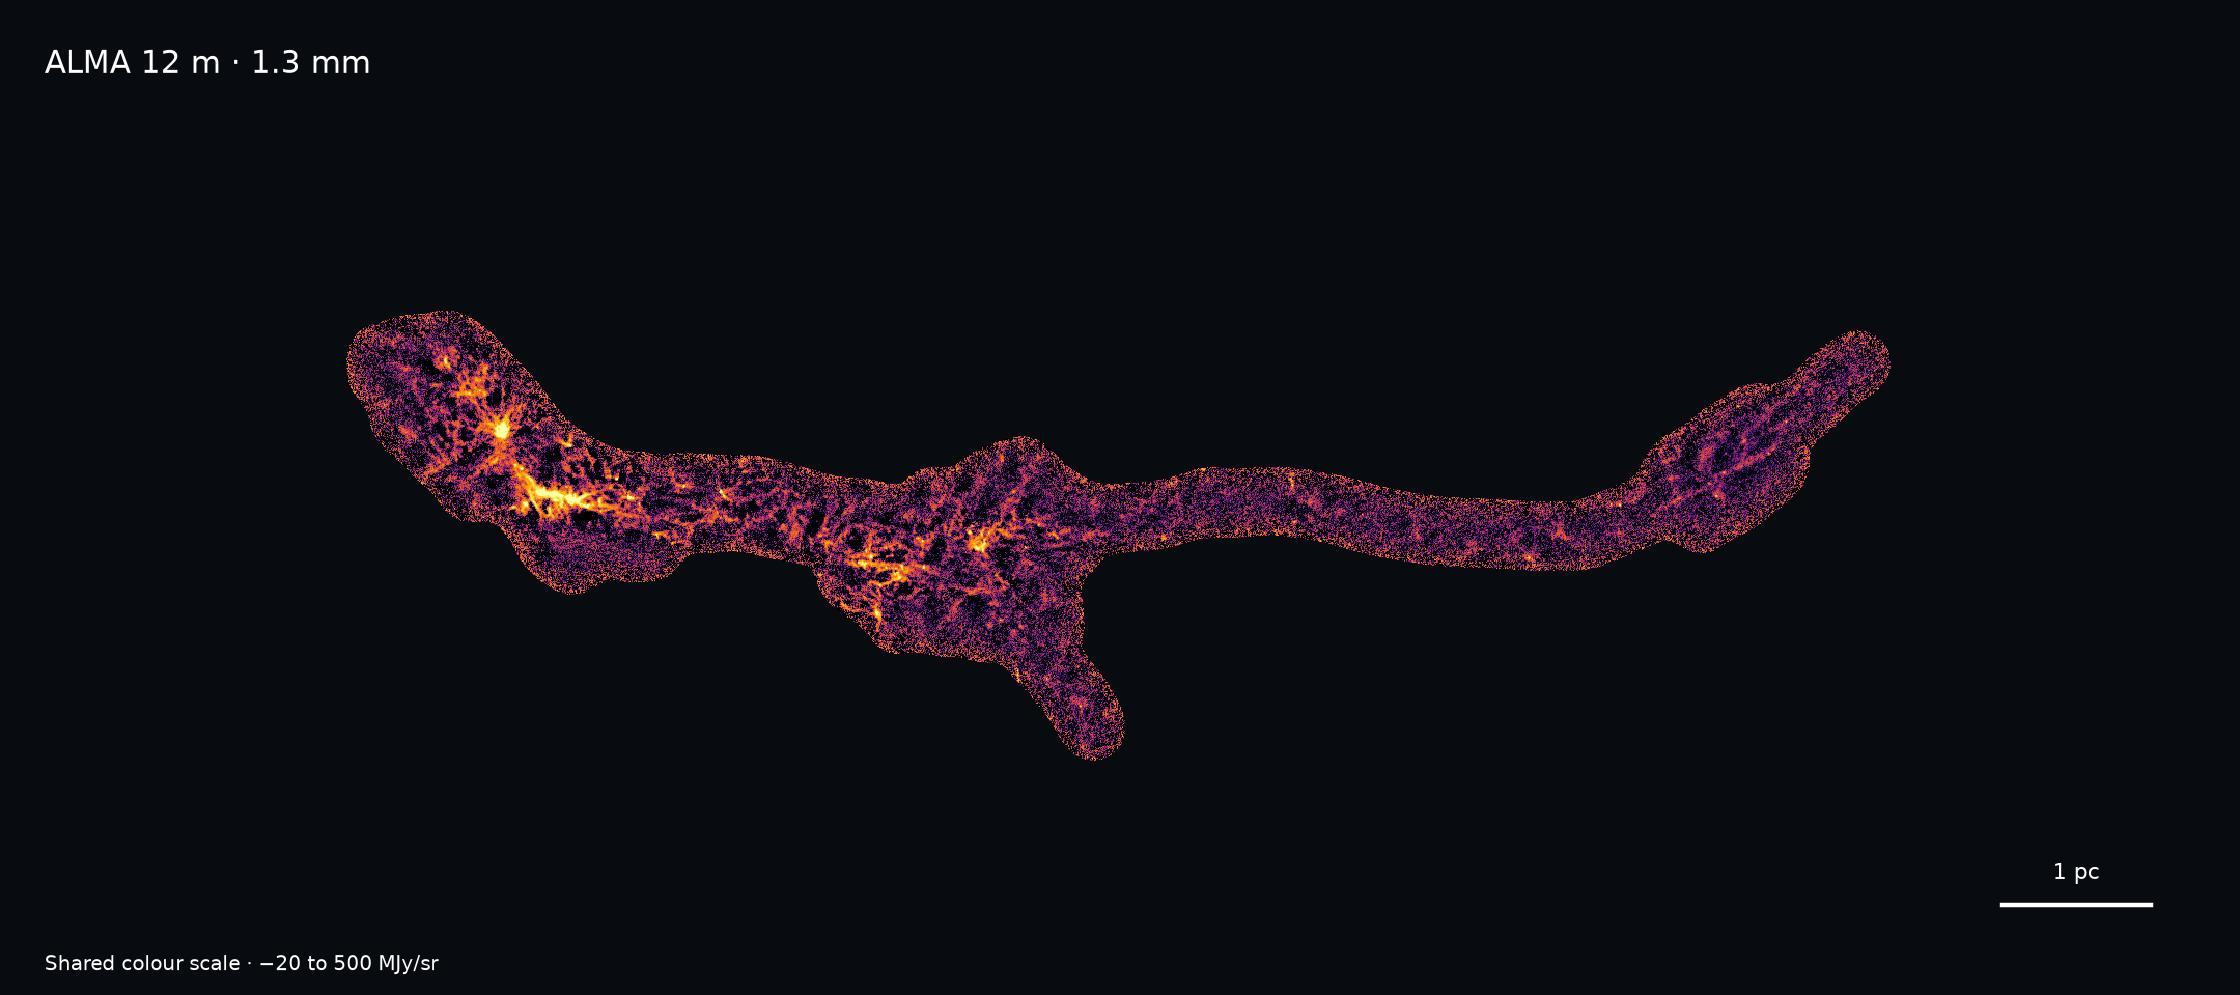
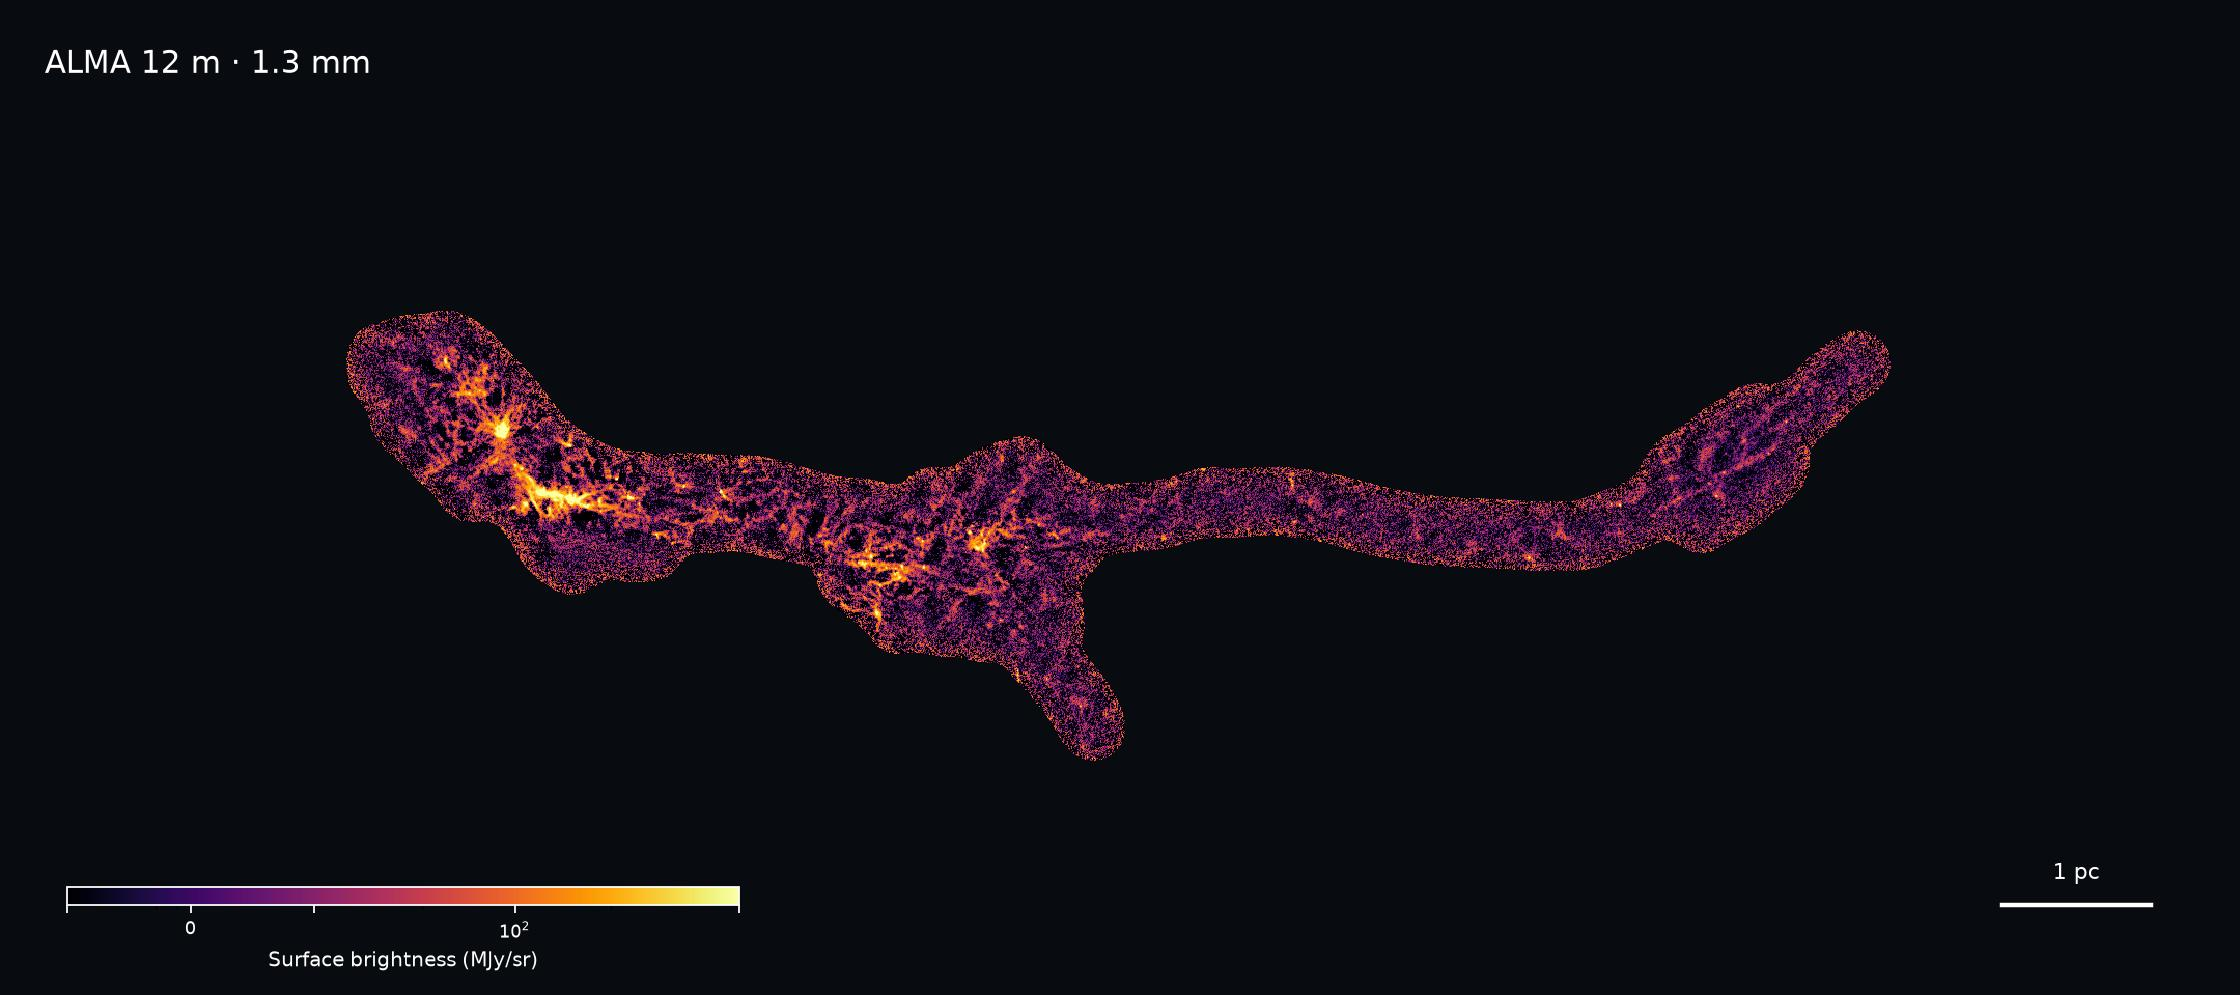
Merge continuum recovery into five-product gallery

Changed region(s): [[0.0312, 0.8724, 0.3438, 0.997]]

diff --git a/website/observations.html b/website/observations.html
@@ -6,12 +6,5 @@
 <a class="telescope-card" href="https://www.eso.org/public/teles-instr/paranal-observatory/surveytelescopes/vista/"><img src="assets/telescope-vista.jpg" alt="VISTA telescope inside its enclosure at Paranal" loading="lazy"><div class="telescope-copy"><span class="eyebrow">1.25–2.15 μm / near infrared</span><h3>VISTA <span aria-hidden="true">↗</span></h3><p>VVV J, H, and Kₛ imagery traces the stellar population and extinction across the filament. Together with GLIMPSE photometry, these data distinguish evolutionary stages from the dark northern cloud to the illuminated southern H II regions.</p><small>Image: ESO</small></div></a>
 <a class="telescope-card" href="https://www.atnf.csiro.au/facilities/australia-telescope-compact-array/"><img src="assets/telescope-atca.jpg" alt="Radio dishes of the Australia Telescope Compact Array" loading="lazy"><div class="telescope-copy"><span class="eyebrow">5.5 GHz / 5.5 cm</span><h3>ATCA <span aria-hidden="true">↗</span></h3><p>The CORNISH-South 5.5 GHz continuum map resolves ionized emission at 2.5 arcsec. It constrains free-free emission around the H II regions and its contribution to the millimetre continuum used for core and fragment mass estimates.</p><small>Image: CSIRO</small></div></a>
 <a class="telescope-card" href="https://www.sarao.ac.za/science/meerkat/"><img src="assets/telescope-meerkat.jpg" alt="MeerKAT radio interferometer in the Karoo" loading="lazy"><div class="telescope-copy"><span class="eyebrow">0.9–1.6 GHz / 19–33 cm</span><h3>MeerKAT <span aria-hidden="true">↗</span></h3><p>The MeerKAT Galactic Plane Survey maps extended radio emission along the filament. Its multi-frequency continuum data, including the 1.38 GHz view shown on our front page, complement ATCA in modelling the free-free contribution to the total continuum.</p><small>Image: SARAO</small></div></a>
-</div><section><div class="section-head"><div><span class="eyebrow">A closer look</span><h2>The invisible, revealed.</h2></div><a href="observations.html">Discover the data ↗</a></div><figure class="wavelength-gallery"><div class="gallery-frames"><img class="gallery-frame is-visible" src="assets/gallery-nir.jpg?v=gallery-3" alt="Near-infrared view of G316.8 with wavelength label, compass and scale bar"><img class="gallery-frame" src="assets/gallery-mir.jpg?v=gallery-3" alt="Mid-infrared view of G316.8 with wavelength label, compass and scale bar"><img class="gallery-frame" src="assets/gallery-fir.jpg?v=gallery-3" alt="Far-infrared view of G316.8 with wavelength label, compass and scale bar"><img class="gallery-frame" src="assets/gallery-mm.jpg?v=gallery-3" alt="Millimeter view of G316.8 with wavelength label, compass and scale bar"><img class="gallery-frame" src="assets/gallery-radio.jpg?v=gallery-3" alt="Radio view of G316.8 with wavelength label, compass and scale bar"></div><div class="gallery-buttons" aria-label="Choose wavelength"><button type="button" aria-pressed="true">Near-infrared</button><button type="button" aria-pressed="false">Mid-infrared</button><button type="button" aria-pressed="false">Far-infrared</button><button type="button" aria-pressed="false">Millimeter</button><button type="button" aria-pressed="false">Radio</button></div><figcaption>The same filament across five wavelength ranges, from near-infrared to radio. Select a wavelength to explore; the gallery advances every five seconds and pauses while you interact.</figcaption></figure></section><section><span class="eyebrow">The survey footprint</span><h2>Entire filament, fully covered</h2><figure><a href="assets/footprints.jpg"><img class="science-image" src="assets/footprints.jpg" alt="ACA 7 m and ALMA 12 m pointing footprints over Herschel 250 micron and Spitzer 5.8 micron maps"></a><figcaption>Actual pointing centres (12 m C2 and C5 share the same blue color) over Herschel 250 μm and Spitzer 5.8 μm maps. Circles show approximate primary-beam FWHM at 225 GHz: 43 arcsec for 7 m and 26 arcsec for 12 m. These illustrate individual fields, not a uniform mosaic sensitivity boundary. Click to enlarge.</figcaption></figure></section><section><span class="eyebrow">Continuum / from sampling to structure</span><h2>Recovering the full picture.</h2><p>Our largely completed continuum workflow combines complementary array configurations and a model of extended emission. Each step below exposes the evidence behind the resulting image.</p><div class="workflow-step"><h3>01 / Pointings and spatial-frequency coverage</h3><p>ACA 7 m and ALMA 12 m pointing centres, uv coverage, and visibility-amplitude profiles. The TP reference represents the reconstructed continuum model.</p><figure><a href="assets/coverage.jpg"><img class="science-image" loading="lazy" src="assets/coverage.jpg" alt="ACA 7 m and ALMA 12 m pointing centres, uv coverage, and visibility-amplitude profiles. The TP reference represents the reconstructed continuum model."></a><figcaption>ACA 7 m and ALMA 12 m pointing centres, uv coverage, and visibility-amplitude profiles. The TP reference represents the reconstructed continuum model. Click to view at full size.</figcaption></figure></div><div class="workflow-step"><h3>02 / Combining the arrays</h3><p>Comparison of the 7 m, 12 m, and combined interferometric images: extended structure and compact cores are recovered together.</p><figure class="wavelength-gallery"><div class="gallery-frames array-gallery-frames"><img class="gallery-frame is-visible" src="assets/array-aca.jpg" alt="ACA 7 m, full filament mosaic at 1.3 mm"><img class="gallery-frame" src="assets/array-12m.jpg" alt="ALMA 12 m, full filament mosaic at 1.3 mm"><img class="gallery-frame" src="assets/array-combined.jpg" alt="Combined 12 m + 7 m, full filament mosaic at 1.3 mm"></div><div class="gallery-buttons" aria-label="Choose array configuration"><button type="button" aria-pressed="true">ACA 7 m</button><button type="button" aria-pressed="false">ALMA 12 m</button><button type="button" aria-pressed="false">Combined 12 m + 7 m</button></div><figcaption>The full filament field on a common sky grid and colour scale. ACA 7 m, ALMA 12 m, and their interferometric combination are shown at their native angular resolutions. The gallery advances every five seconds; select a configuration to compare.</figcaption></figure></div><div class="workflow-step"><h3>03 / Restoring extended emission</h3><p>J-comb combines the primary-beam-corrected interferometric image with the 1.3 mm continuum model constructed from dust and free-free SED fitting. This restores diffuse emission and reduces negative bowls while retaining compact structures.</p><figure class="recovery-figure">
-<div class="recovery-animation" role="img" aria-label="Alternating views of the same field: single-dish-resolution continuum model and fully combined high-resolution continuum image.">
-<img src="assets/continuum-model.png" alt="" loading="lazy" draggable="false">
-<img class="recovery-combined" src="assets/continuum-combined.png" alt="" loading="lazy" draggable="false">
-</div>
-<div class="recovery-labels" aria-hidden="true"><span class="model-label">Single-dish-resolution model</span><span class="combined-label">Fully combined · high resolution</span></div>
-<figcaption>The same field, from the reconstructed 1.3 mm total-power continuum model to the fully combined dust and free-free image. The colour stretches are adjusted separately to show structure; this is a resolution comparison, not a direct brightness comparison.</figcaption>
-</figure></div></section><section><span class="eyebrow">Spectral lines / a separate workflow</span><h2>Resolving the gas in velocity.</h2><p>All six targeted narrow spectral windows documented in Paper I are listed below. Frequencies are observing-window centres, not molecular rest frequencies. Coverage does not imply that every transition is detected or has a completed combined cube.</p><div class="table-wrap"><table><thead><tr><th>Molecule</th><th>Transition</th><th>Window centre (GHz)</th></tr></thead><tbody><tr><td>H₂CO</td><td>3₀₃–2₀₂</td><td>218.248</td></tr><tr><td>H₂CO</td><td>3₂₂–2₂₁</td><td>218.484</td></tr><tr><td>C¹⁸O</td><td>2–1</td><td>219.587</td></tr><tr><td>CO</td><td>2–1</td><td>230.565</td></tr><tr><td>¹³CS</td><td>5–4</td><td>231.249</td></tr><tr><td>N₂D⁺</td><td>3–2</td><td>231.350</td></tr></tbody></table></div><p>Two wide windows centred at 216.732 and 230.940 GHz provide additional spectral coverage and continuum bandwidth.</p><div class="cards"><article><span class="eyebrow">01 / PREPARE</span><h3>Continuum subtraction</h3><p>Line-free channels are fitted in visibility space before cube imaging.</p></article><article><span class="eyebrow">02 / IMAGE</span><h3>Joint array imaging</h3><p>Current C¹⁸O work tests joint 12 m and 7 m imaging. H₂CO 3₀₃–2₀₂ continuum-subtracted measurement sets are also available.</p></article><article><span class="eyebrow">03 / COMBINE</span><h3>Recover extended line emission</h3><p>The C¹⁸O pilot combines the interferometric cube with LSRK total-power data. Its processing status is distinct from the completed continuum products.</p></article></div></section><section class="technical"><span class="eyebrow">Work with LANCET</span><h2>Science with a traceable workflow.</h2><p>The Python package, runnable scripts, and per-task documentation live together in the repository. Data-dependent tasks require their declared local inputs; observational data are not bundled with the code.</p><pre><code>python -m pip install -e ".[dev]"
+</div><section><div class="section-head"><div><span class="eyebrow">A closer look</span><h2>The invisible, revealed.</h2></div><a href="observations.html">Discover the data ↗</a></div><figure class="wavelength-gallery"><div class="gallery-frames"><img class="gallery-frame is-visible" src="assets/gallery-nir.jpg?v=gallery-3" alt="Near-infrared view of G316.8 with wavelength label, compass and scale bar"><img class="gallery-frame" src="assets/gallery-mir.jpg?v=gallery-3" alt="Mid-infrared view of G316.8 with wavelength label, compass and scale bar"><img class="gallery-frame" src="assets/gallery-fir.jpg?v=gallery-3" alt="Far-infrared view of G316.8 with wavelength label, compass and scale bar"><img class="gallery-frame" src="assets/gallery-mm.jpg?v=gallery-3" alt="Millimeter view of G316.8 with wavelength label, compass and scale bar"><img class="gallery-frame" src="assets/gallery-radio.jpg?v=gallery-3" alt="Radio view of G316.8 with wavelength label, compass and scale bar"></div><div class="gallery-buttons" aria-label="Choose wavelength"><button type="button" aria-pressed="true">Near-infrared</button><button type="button" aria-pressed="false">Mid-infrared</button><button type="button" aria-pressed="false">Far-infrared</button><button type="button" aria-pressed="false">Millimeter</button><button type="button" aria-pressed="false">Radio</button></div><figcaption>The same filament across five wavelength ranges, from near-infrared to radio. Select a wavelength to explore; the gallery advances every five seconds and pauses while you interact.</figcaption></figure></section><section><span class="eyebrow">The survey footprint</span><h2>Entire filament, fully covered</h2><figure><a href="assets/footprints.jpg"><img class="science-image" src="assets/footprints.jpg" alt="ACA 7 m and ALMA 12 m pointing footprints over Herschel 250 micron and Spitzer 5.8 micron maps"></a><figcaption>Actual pointing centres (12 m C2 and C5 share the same blue color) over Herschel 250 μm and Spitzer 5.8 μm maps. Circles show approximate primary-beam FWHM at 225 GHz: 43 arcsec for 7 m and 26 arcsec for 12 m. These illustrate individual fields, not a uniform mosaic sensitivity boundary. Click to enlarge.</figcaption></figure></section><section><span class="eyebrow">Continuum / from sampling to structure</span><h2>Recovering the full picture.</h2><p>Our largely completed continuum workflow combines complementary array configurations and a model of extended emission. Each step below exposes the evidence behind the resulting image.</p><div class="workflow-step"><h3>01 / Pointings and spatial-frequency coverage</h3><p>ACA 7 m and ALMA 12 m pointing centres, uv coverage, and visibility-amplitude profiles. The TP reference represents the reconstructed continuum model.</p><figure><a href="assets/coverage.jpg"><img class="science-image" loading="lazy" src="assets/coverage.jpg" alt="ACA 7 m and ALMA 12 m pointing centres, uv coverage, and visibility-amplitude profiles. The TP reference represents the reconstructed continuum model."></a><figcaption>ACA 7 m and ALMA 12 m pointing centres, uv coverage, and visibility-amplitude profiles. The TP reference represents the reconstructed continuum model. Click to view at full size.</figcaption></figure></div><div class="workflow-step"><h3>02 / Combining arrays and restoring extended emission</h3><p>From individual arrays to the fully combined continuum: compare compact structure and extended emission across the full filament.</p><figure class="wavelength-gallery"><div class="gallery-frames array-gallery-frames"><img class="gallery-frame is-visible" src="assets/array-aca.jpg?v=five-arrays" alt="ACA 7 m, full filament view with a shared surface-brightness colour bar"><img class="gallery-frame" src="assets/array-12m.jpg?v=five-arrays" alt="ALMA 12 m, full filament view with a shared surface-brightness colour bar"><img class="gallery-frame" src="assets/array-combined.jpg?v=five-arrays" alt="12 m + 7 m, full filament view with a shared surface-brightness colour bar"><img class="gallery-frame" src="assets/array-tp.jpg?v=five-arrays" alt="Total power, full filament view with a shared surface-brightness colour bar"><img class="gallery-frame" src="assets/array-full.jpg?v=five-arrays" alt="Fully combined, full filament view with a shared surface-brightness colour bar"></div><div class="gallery-buttons" aria-label="Choose continuum product"><button type="button" aria-pressed="true">ACA 7 m</button><button type="button" aria-pressed="false">ALMA 12 m</button><button type="button" aria-pressed="false">12 m + 7 m</button><button type="button" aria-pressed="false">Total power</button><button type="button" aria-pressed="false">Fully combined</button></div><figcaption>All five views share the same sky field, inferno colour map, and surface-brightness scale in MJy/sr. Total power is the reconstructed dust-plus-free-free continuum model; J-comb combines it with the interferometric image to restore extended emission. Images retain their native angular resolutions. Select a product or follow the five-second crossfades.</figcaption></figure></div></section><section><span class="eyebrow">Spectral lines / a separate workflow</span><h2>Resolving the gas in velocity.</h2><p>All six targeted narrow spectral windows documented in Paper I are listed below. Frequencies are observing-window centres, not molecular rest frequencies. Coverage does not imply that every transition is detected or has a completed combined cube.</p><div class="table-wrap"><table><thead><tr><th>Molecule</th><th>Transition</th><th>Window centre (GHz)</th></tr></thead><tbody><tr><td>H₂CO</td><td>3₀₃–2₀₂</td><td>218.248</td></tr><tr><td>H₂CO</td><td>3₂₂–2₂₁</td><td>218.484</td></tr><tr><td>C¹⁸O</td><td>2–1</td><td>219.587</td></tr><tr><td>CO</td><td>2–1</td><td>230.565</td></tr><tr><td>¹³CS</td><td>5–4</td><td>231.249</td></tr><tr><td>N₂D⁺</td><td>3–2</td><td>231.350</td></tr></tbody></table></div><p>Two wide windows centred at 216.732 and 230.940 GHz provide additional spectral coverage and continuum bandwidth.</p><div class="cards"><article><span class="eyebrow">01 / PREPARE</span><h3>Continuum subtraction</h3><p>Line-free channels are fitted in visibility space before cube imaging.</p></article><article><span class="eyebrow">02 / IMAGE</span><h3>Joint array imaging</h3><p>Current C¹⁸O work tests joint 12 m and 7 m imaging. H₂CO 3₀₃–2₀₂ continuum-subtracted measurement sets are also available.</p></article><article><span class="eyebrow">03 / COMBINE</span><h3>Recover extended line emission</h3><p>The C¹⁸O pilot combines the interferometric cube with LSRK total-power data. Its processing status is distinct from the completed continuum products.</p></article></div></section><section class="technical"><span class="eyebrow">Work with LANCET</span><h2>Science with a traceable workflow.</h2><p>The Python package, runnable scripts, and per-task documentation live together in the repository. Data-dependent tasks require their declared local inputs; observational data are not bundled with the code.</p><pre><code>python -m pip install -e ".[dev]"
 python scripts/prepare_continuum_images.py --stage inspect</code></pre><a class="button" href="https://github.com/XFengwei/LANCET/tree/main/tasks">Explore task documentation ↗</a></section></main><footer><a class="brand logo-brand" href="index.html" aria-label="LANCET home"><img src="assets/lancet-logo.png?v=antenna-20261110" alt="LANCET" width="1536" height="1024"></a><p>Linear filament and nested cluster evolution tomography</p><a href="https://github.com/XFengwei/LANCET">Explore the repository ↗</a></footer><script src="gallery.js?v=arrays-1" defer></script></body></html>

diff --git a/website/tools/build_array_gallery.py b/website/tools/build_array_gallery.py
@@ -18,15 +18,26 @@ view = tomllib.loads((ROOT/'tasks/multiwavelength_strip/task.toml').read_text())
 # Include the full filament and margin around the mosaic, on a shared rotated grid.
 view.update(width_arcmin=18., height_arcmin=8., pixel_scale_arcsec=.5)
 wcs, shape = strip.strip_wcs(view)
-for name, key, label in [('aca','aca_pbcor','ACA 7 m'), ('12m','twelve_m_pbcor','ALMA 12 m'), ('combined','combined_pbcut','ALMA 12 m + ACA 7 m')]:
-    with fits.open(ROOT/config['images'][key], memmap=True) as hdul:
-        data, footprint = reproject_interp((np.squeeze(hdul[0].data), WCS(hdul[0].header).celestial), wcs, shape_out=shape)
+inputs = [(name, ROOT/config['images'][key], label) for name, key, label in [('aca','aca_pbcor','ACA 7 m'), ('12m','twelve_m_pbcor','ALMA 12 m'), ('combined','combined_pbcut','ALMA 12 m + ACA 7 m')]]
+inputs += [('tp', ROOT/'results/synthesize_continuum/model/continuum_230GHz.fits', 'Total-power continuum model'), ('full', ROOT/'data/delivered/alma/TP7MTM2TM1/cont/allscale_combined_v3_dust_ff.MJysr.fits', 'Fully combined 12 m + 7 m + TP')]
+for name, path, label in inputs:
+    with fits.open(path, memmap=True) as hdul:
+        values = np.squeeze(hdul[0].data)
+        if hdul[0].header.get('BUNIT', '').lower() == 'jy/beam':
+            # Convert Jy/beam to MJy/sr before applying the common display scale.
+            beam_sr = np.pi/(4*np.log(2))*np.deg2rad(hdul[0].header['BMAJ'])*np.deg2rad(hdul[0].header['BMIN'])
+            values = values / beam_sr / 1e6
+        data, footprint = reproject_interp((values, WCS(hdul[0].header).celestial), wcs, shape_out=shape)
     fig = plt.figure(figsize=(14, 14*8/18), dpi=160, facecolor='#080b10')
     ax = fig.add_axes([0,0,1,1]); ax.set_facecolor('#080b10')
-    ax.imshow(data, origin='lower', cmap='inferno', norm=AsinhNorm(linear_width=20, vmin=-20, vmax=500), interpolation='nearest')
+    plotted = ax.imshow(data, origin='lower', cmap='inferno', norm=AsinhNorm(linear_width=20, vmin=-20, vmax=500), interpolation='nearest')
     ax.set_axis_off()
     ax.text(.02,.95,label+' · 1.3 mm',transform=ax.transAxes,color='white',va='top',fontsize=14)
-    ax.text(.02,.025,'Shared colour scale · −20 to 500 MJy/sr',transform=ax.transAxes,color='white',fontsize=9)
+    bar_ax = fig.add_axes([.03,.09,.30,.018])
+    bar = fig.colorbar(plotted, cax=bar_ax, orientation='horizontal', ticks=[-20,0,20,100,500])
+    bar.ax.tick_params(colors='white', labelsize=8)
+    bar.set_label('Surface brightness (MJy/sr)', color='white', fontsize=9)
+    bar.outline.set_edgecolor('white')
     length=.02*3600/view['pixel_scale_arcsec']; x=shape[1]*.96; y=shape[0]*.09
     ax.plot([x-length,x],[y,y],color='white',lw=2)
     ax.text(x-length/2,y+25,'1 pc',ha='center',color='white')
